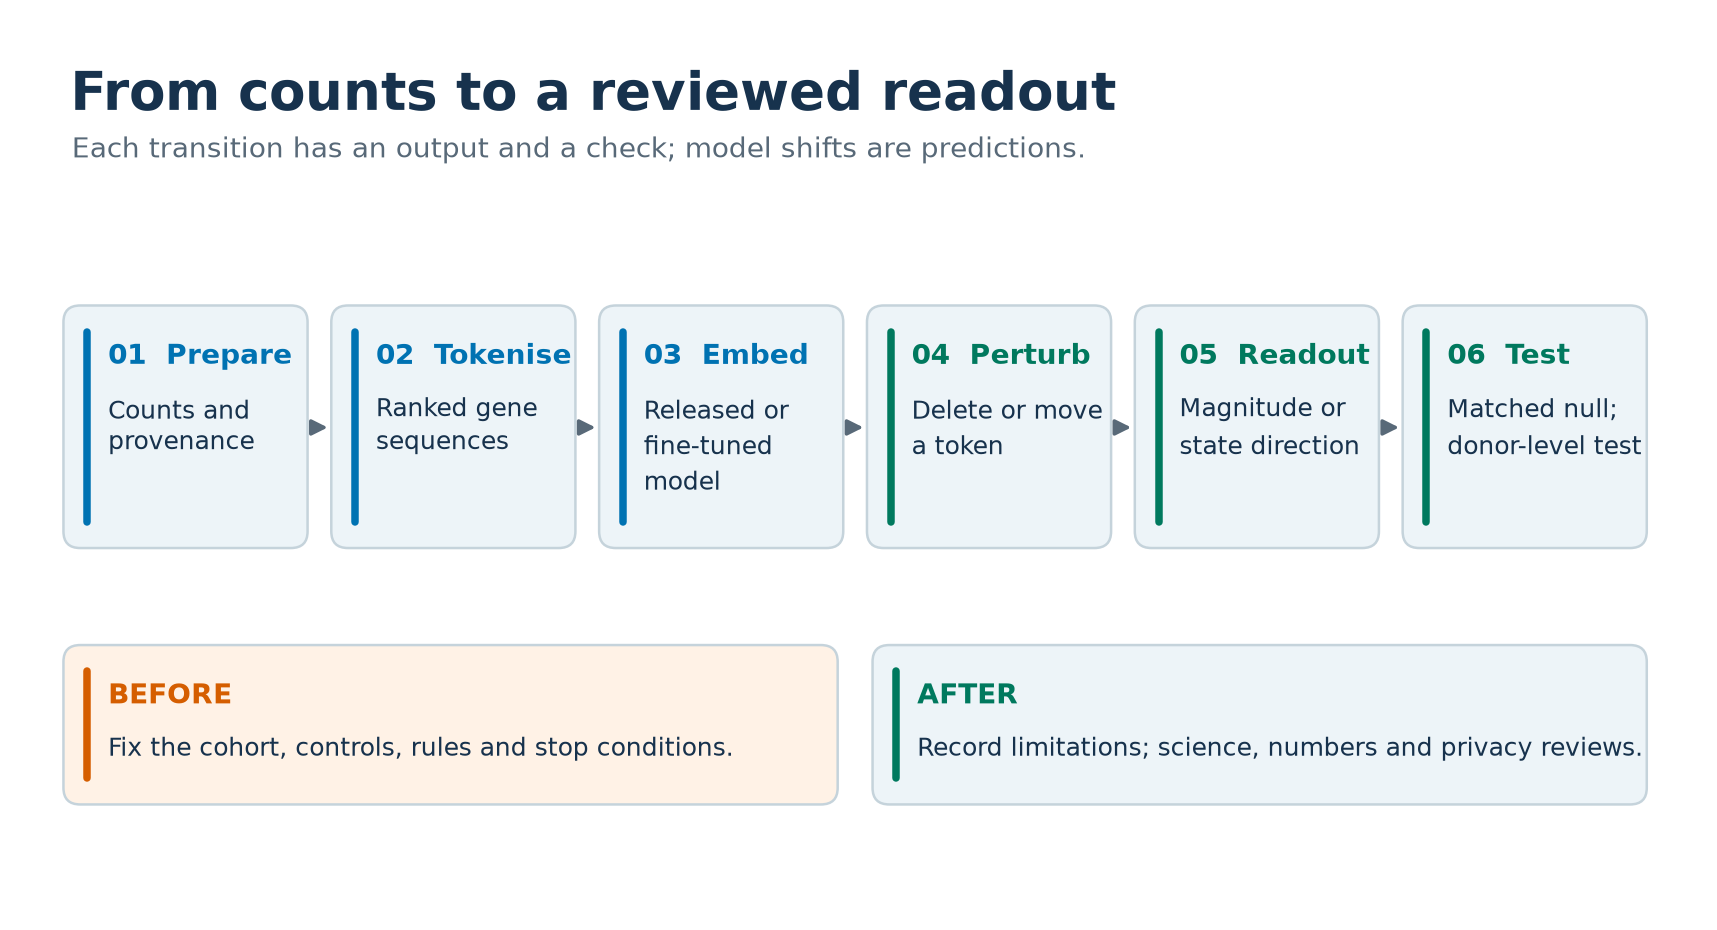
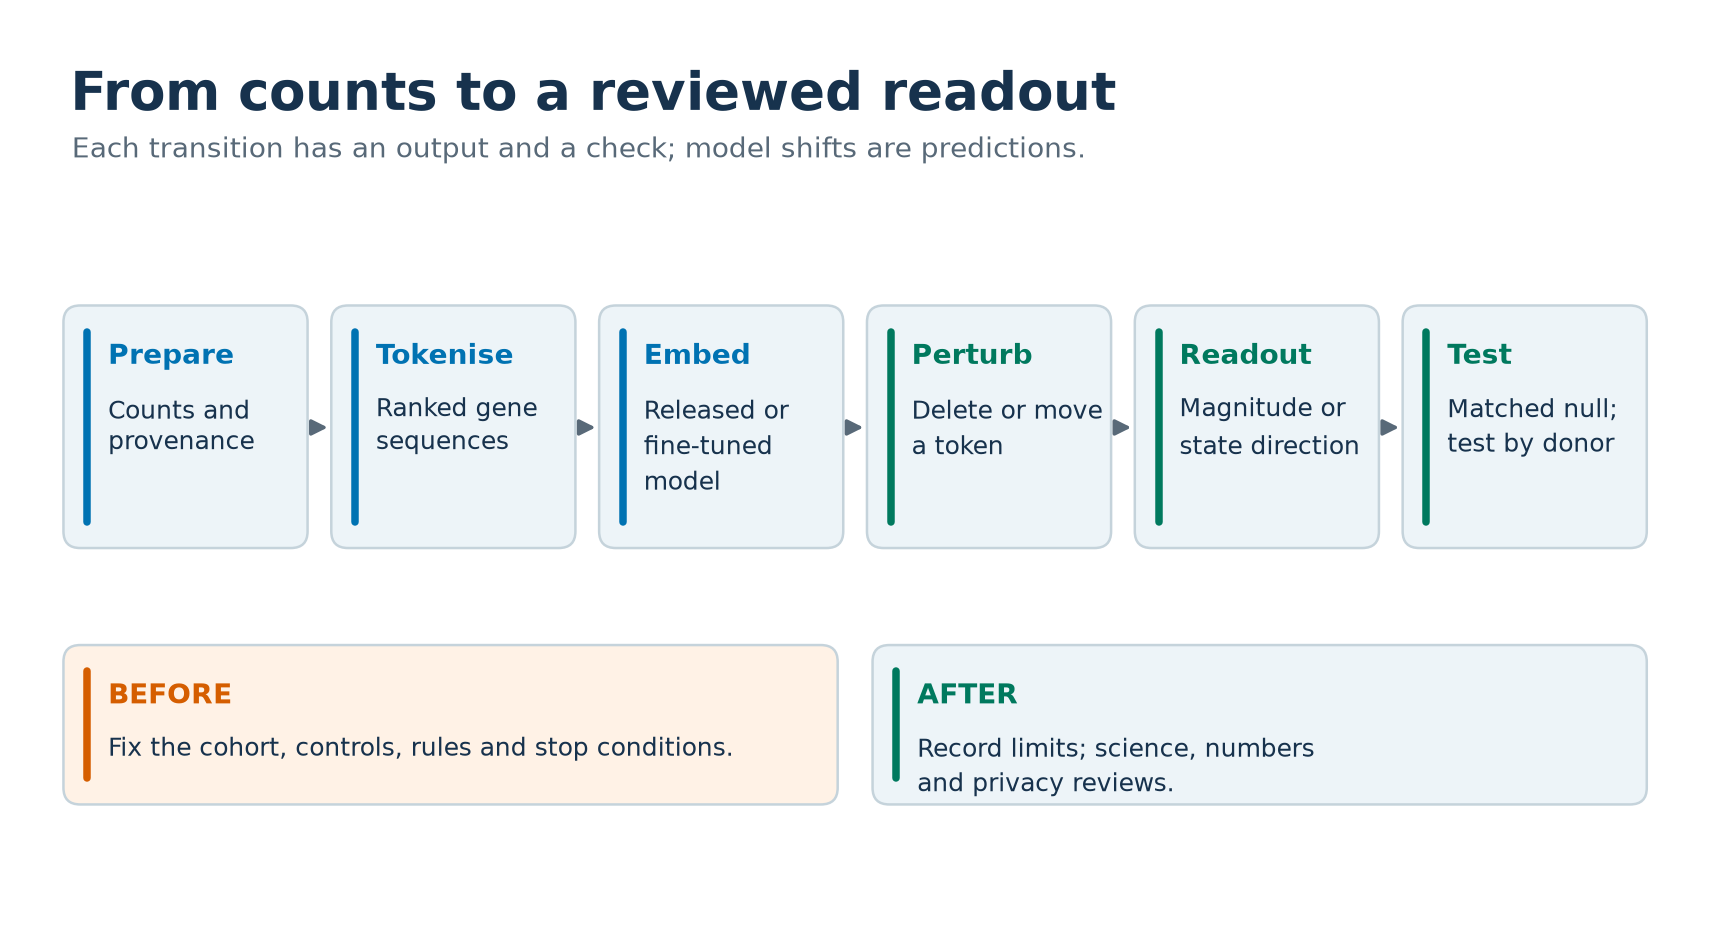
Figures: drop step numerals from the pipeline figure; fix box-edge spacing in figures 01, 02 and 06

diff --git a/figures/src/draw.py b/figures/src/draw.py
@@ -1,6 +1,7 @@
 #!/usr/bin/env python3
 """Generate the methods diagrams offline: python figures/src/draw.py."""
 from pathlib import Path
+import sys
 import numpy as np
 import matplotlib
 matplotlib.use('Agg')
@@ -25,18 +26,21 @@ def arrow(ax,x1,y1,x2,y2,color=GREY):
  ax.add_patch(FancyArrowPatch((x1,y1),(x2,y2),arrowstyle='-|>',mutation_scale=13,linewidth=1.4,color=color,connectionstyle='arc3'))
 
 def save(fig,name):
+ if len(sys.argv) > 1 and name not in sys.argv[1:]:
+  plt.close(fig)
+  return
  for ext in ('svg','png'):
   metadata = {'Creator': None, 'Date': None} if ext == 'svg' else {'Software': 'Matplotlib'}
   fig.savefig(OUT/f'{name}.{ext}',dpi=180,bbox_inches='tight',pad_inches=.12,metadata=metadata)
  plt.close(fig)
 
 fig,ax=canvas('From counts to a reviewed readout','Each transition has an output and a check; model shifts are predictions.')
-nodes=[('01  Prepare','Counts and\nprovenance'),('02  Tokenise','Ranked gene\nsequences'),('03  Embed','Released or\nfine-tuned\nmodel'),('04  Perturb','Delete or move\na token'),('05  Readout','Magnitude or\nstate direction'),('06  Test','Matched null;\ndonor-level test')]
+nodes=[('Prepare','Counts and\nprovenance'),('Tokenise','Ranked gene\nsequences'),('Embed','Released or\nfine-tuned\nmodel'),('Perturb','Delete or move\na token'),('Readout','Magnitude or\nstate direction'),('Test','Matched null;\ntest by donor')]
 for i,(t,b) in enumerate(nodes):
  x=.35+i*1.92;box(ax,x,2.65,1.65,1.65,t,b,color=BLUE if i<3 else GREEN)
  if i<5:arrow(ax,x+1.72,3.47,x+1.88,3.47)
 box(ax,.35,.8,5.45,1.05,'BEFORE','Fix the cohort, controls, rules and stop conditions.',ORANGE,LIGHT)
-box(ax,6.15,.8,5.45,1.05,'AFTER','Record limitations; science, numbers and privacy reviews.',GREEN)
+box(ax,6.15,.8,5.45,1.05,'AFTER','Record limits; science, numbers\nand privacy reviews.',GREEN)
 save(fig,'01-pipeline')
 
 fig,ax=canvas('An edit moves a representation along an axis','Illustrative geometry; points and arrow lengths are schematic.')
@@ -44,7 +48,7 @@ ax.annotate('',xy=(8.8,3.1),xytext=(2,3.1),arrowprops={'arrowstyle':'->','lw':2,
 ax.scatter([3.9,4.85,4.35],[3.1,4.05,2.25],s=[110,100,90],c=[BLUE,ORANGE,GREEN],zorder=3)
 arrow(ax,3.9,3.1,4.85,4.05,ORANGE);ax.plot([4.85,4.85],[3.1,4.05],ls=':',color=GREY);ax.annotate('',xy=(4.85,3.1),xytext=(3.9,3.1),arrowprops={'arrowstyle':'->','color':ORANGE,'lw':3})
 ax.text(3.4,3.35,'original',color=BLUE);ax.text(4.98,4.02,'edited',color=ORANGE);ax.text(3.78,2.42,'matched edit',color=GREEN)
-box(ax,8.55,3.95,3,1.0,'GOAL AXIS','Cross-fit and check\nresolution first.',BLUE)
+box(ax,8.55,3.95,3,1.25,'GOAL AXIS','Cross-fit and check\nresolution first.',BLUE)
 box(ax,8.55,1.1,3,1.25,'MATCHED NULL','Compare with edits matched\non rank and detection.',GREEN)
 ax.text(.4,.45,'An axis projection is not a measured effect in a cell.',color=GREY,fontsize=10)
 save(fig,'02-axis-null')
@@ -76,7 +80,7 @@ save(fig,'05-review-flow')
 
 fig,ax=canvas('A practical route through common failures','Start at the symptom; confirm the cause before changing a run.')
 box(ax,.35,3.35,3.05,1.45,'NO OR INVALID OUTPUT','Check completion, NaNs\nand the no-op control.',BLUE)
-box(ax,4.45,4.05,3.0,1.05,'ALL SHIFTS ZERO?','Check precision and\nresolution.',ORANGE,LIGHT)
+box(ax,4.45,3.90,3.0,1.25,'ALL SHIFTS ZERO?','Check precision and\nresolution.',ORANGE,LIGHT)
 box(ax,4.45,2.35,3.0,1.1,'CONSTANT SCORES?','Check collapse diagnostics.',ORANGE,LIGHT)
 box(ax,8.45,3.35,3.05,1.45,'REPAIR OR STOP','Trace the observed cause;\nkeep failed outputs and\nchange one thing per rerun.',GREEN)
 for a,b in [((3.45,4.15),(4.4,4.55)),((3.45,3.95),(4.4,2.9)),((7.5,4.55),(8.4,4.15)),((7.5,2.9),(8.4,3.9))]:arrow(ax,*a,*b)

diff --git a/figures/README.md b/figures/README.md
@@ -4,7 +4,7 @@ These diagrams explain the methods in this repository. They are schematics, not 
 
 | Figure | What it shows | Source for the content | Files |
 |---|---|---|---|
-| 01 | Counts to tokenisation, embeddings, perturbations, readout and review | [Pipeline](../docs/PIPELINE.md), stages 1–9 | [SVG](01-pipeline.svg) · [PNG](01-pipeline.png) |
+| 01 | Counts to tokenisation, embeddings, perturbations, readout and review | [Pipeline](../docs/PIPELINE.md): six steps that summarise its nine stages | [SVG](01-pipeline.svg) · [PNG](01-pipeline.png) |
 | 02 | Start-to-goal axis, edit displacement and matched null | [Pipeline, stage 7](../docs/PIPELINE.md#7-embed-and-perturb); [Statistics, section 2](../docs/STATISTICS.md#2-compare-with-a-matched-null-never-with-zero) | [SVG](02-axis-null.svg) · [PNG](02-axis-null.png) |
 | 03 | Released and fine-tuned comparison, donor split and gates | [Approaches](../docs/APPROACHES.md), sections 1–2; [Criteria](../docs/CRITERIA.md), sections 1 and 3 | [SVG](03-comparison-design.svg) · [PNG](03-comparison-design.png) |
 | 04 | Collapse symptoms, diagnostics and limits on interpretation | [Issues, I-9](../docs/ISSUES.md#i-9-a-fine-tune-collapses-to-a-constant-predictor) | [SVG](04-collapse.svg) · [PNG](04-collapse.png) |
